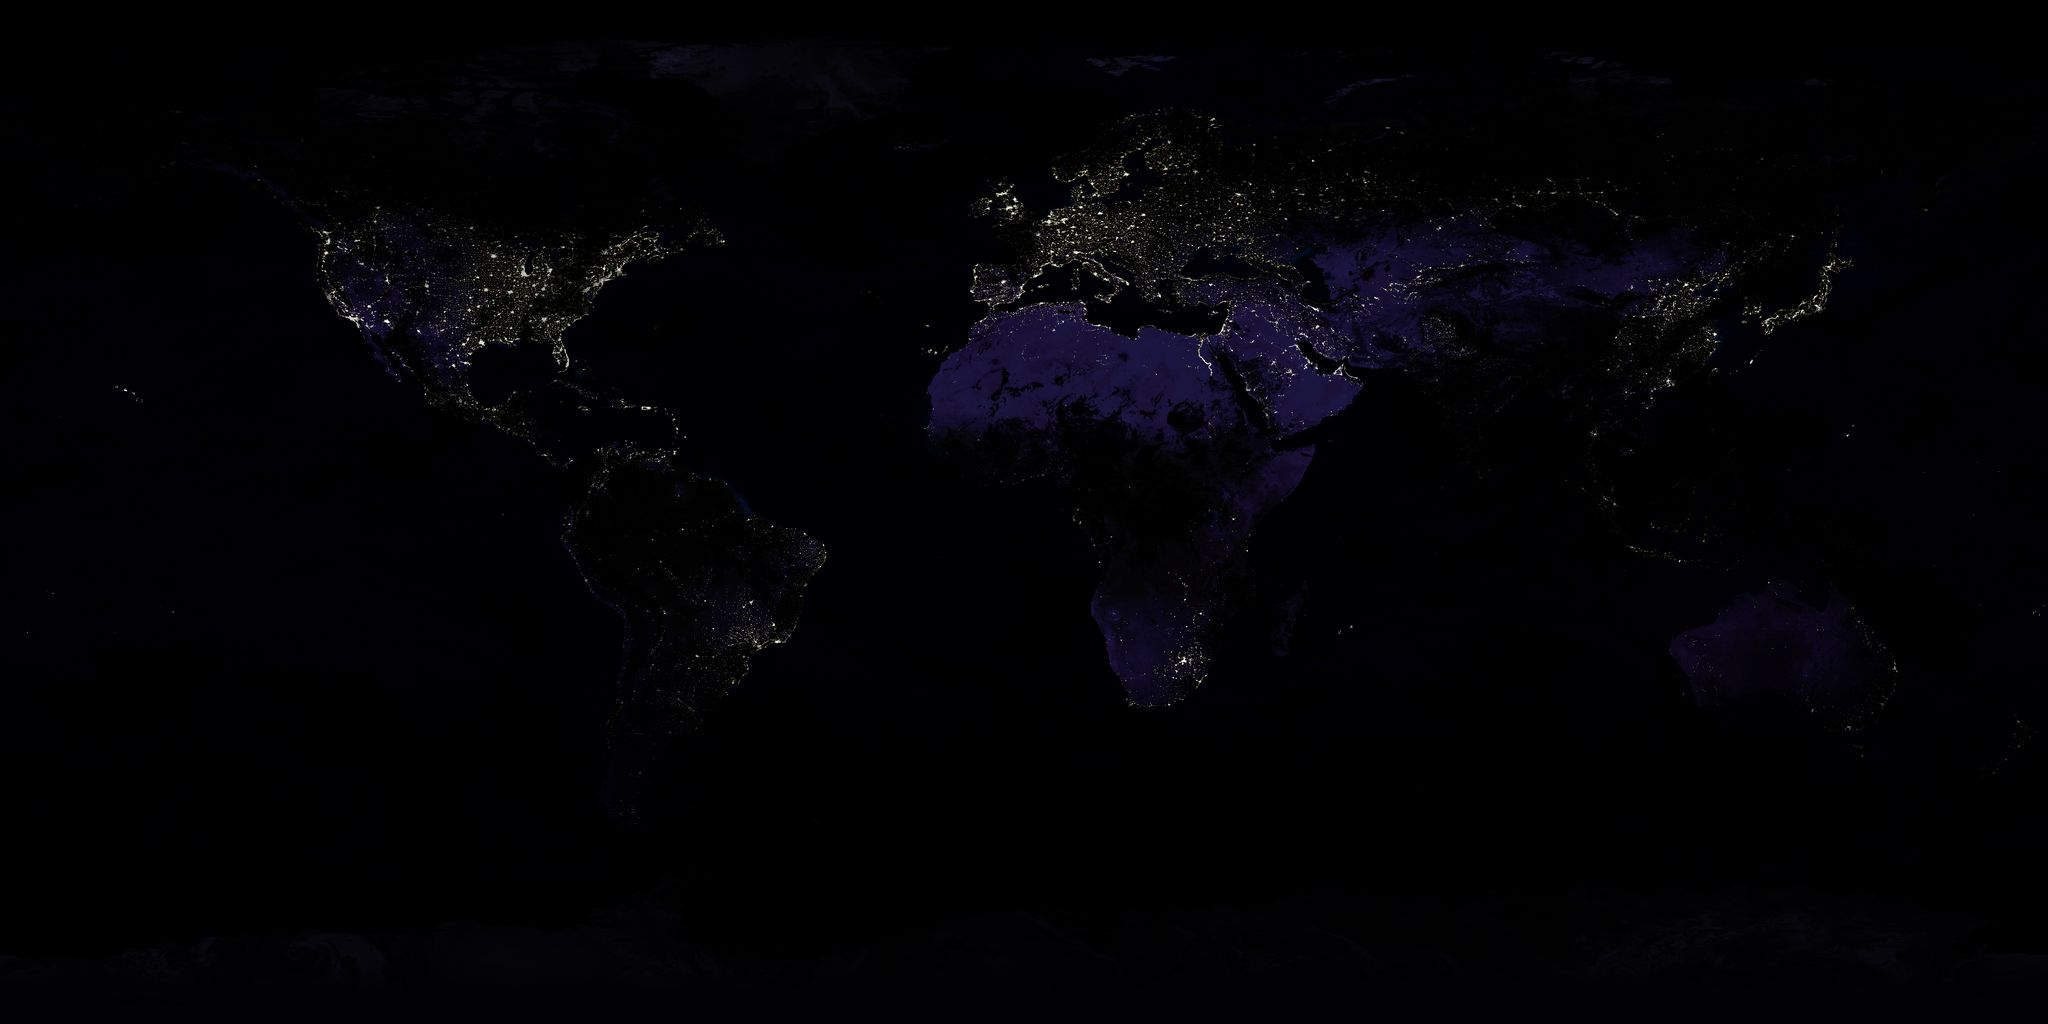
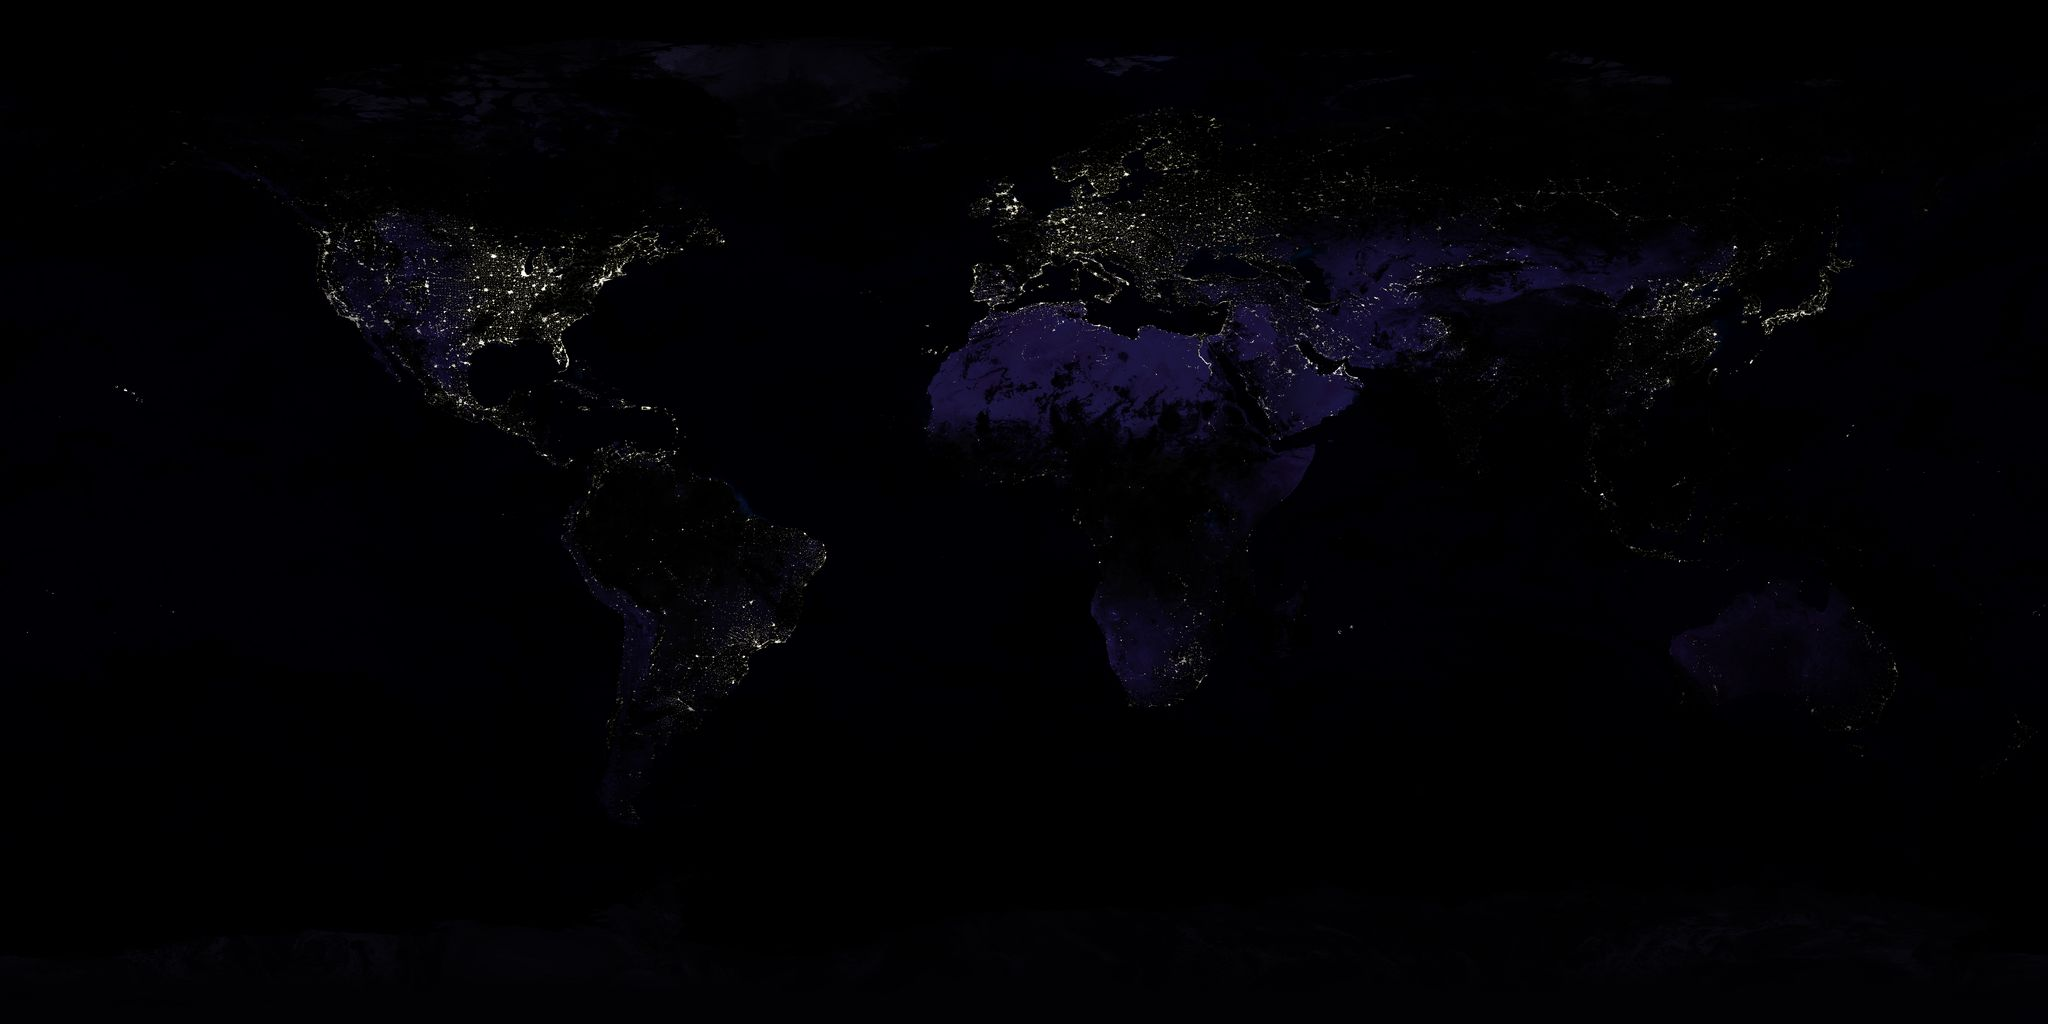
possibly got the day/night blending working nicely

diff --git a/backend/cloud_generator.py b/backend/cloud_generator.py
@@ -7,8 +7,9 @@ import os
 import requests
 import numpy as np
 from PIL import Image, ImageFilter
-from datetime import datetime
+from datetime import datetime, timezone
 import time
+import math
 
 print("Generating cloud maps...")
 
@@ -465,3 +466,142 @@ def save_image_resolutions(image, filename, formats):
 # Start loading images
 for img in images_to_load:
     load_image(img)
+
+def calculate_solar_position(dt):
+    """Calculate sun's subsolar point (latitude, longitude) for given datetime"""
+    # More accurate solar position calculation
+    
+    # Days since J2000.0 epoch (January 1, 2000, 12:00 UTC)
+    j2000 = datetime(2000, 1, 1, 12, 0, 0, tzinfo=timezone.utc)
+    days_since_j2000 = (dt - j2000).total_seconds() / 86400.0
+    
+    # Solar declination (latitude where sun is directly overhead)
+    # This varies from +23.44° to -23.44° throughout the year
+    day_of_year = dt.timetuple().tm_yday
+    solar_declination = 23.44 * math.sin(math.radians(360 * (284 + day_of_year) / 365.25))
+    
+    # Solar longitude (where the sun is directly overhead longitude-wise)
+    # This is based on the equation of time and hour of day
+    
+    # Mean solar time
+    hours_since_midnight = dt.hour + dt.minute/60.0 + dt.second/3600.0
+    
+    # Equation of time correction (simplified)
+    B = math.radians(360 * (day_of_year - 81) / 365.25)
+    equation_of_time = 9.87 * math.sin(2 * B) - 7.53 * math.cos(B) - 1.5 * math.sin(B)
+    
+    # Solar hour angle (0° at solar noon, 15° per hour)
+    solar_time = hours_since_midnight + equation_of_time / 60.0
+    hour_angle = 15.0 * (solar_time - 12.0)  # 15° per hour from solar noon
+    
+    # Solar longitude is opposite to the hour angle
+    solar_longitude = -hour_angle
+    
+    # Normalize to -180 to +180
+    while solar_longitude > 180:
+        solar_longitude -= 360
+    while solar_longitude < -180:
+        solar_longitude += 360
+    
+    return solar_declination, solar_longitude
+
+
+def create_terminator_mask(width, height, solar_lat, solar_lon):
+    """Create a mask where 1.0 = day, 0.0 = night, with smooth transition"""
+    print(f'Creating terminator mask for solar position: {solar_lat:.2f}°, {solar_lon:.2f}°')
+    
+    # Create coordinate grids
+    lon_grid = np.linspace(-180, 180, width)
+    lat_grid = np.linspace(90, -90, height)
+    lon_mesh, lat_mesh = np.meshgrid(lon_grid, lat_grid)
+    
+    # Calculate solar zenith angle for each pixel
+    lat_rad = np.radians(lat_mesh)
+    lon_rad = np.radians(lon_mesh)
+    solar_lat_rad = np.radians(solar_lat)
+    solar_lon_rad = np.radians(solar_lon)
+    
+    # Spherical trigonometry to find sun angle
+    cos_zenith = (np.sin(lat_rad) * np.sin(solar_lat_rad) + 
+                  np.cos(lat_rad) * np.cos(solar_lat_rad) * 
+                  np.cos(lon_rad - solar_lon_rad))
+    
+    # Convert to day/night mask with smooth transition
+    # cos_zenith > 0 = day, cos_zenith < 0 = night
+    # Add smooth transition around terminator (±6 degrees = civil twilight)
+    twilight_angle = np.radians(6)  # Civil twilight
+    day_mask = np.clip((cos_zenith + np.sin(twilight_angle)) / (2 * np.sin(twilight_angle)), 0, 1)
+    
+    return day_mask
+
+
+def create_day_night_blend():
+    """Create blended day/night earth image with real-time terminator"""
+    print('Creating day/night blend with real-time terminator...')
+    
+    # Get current time (UTC)
+    current_time = datetime.now(timezone.utc)
+    print(f'Current UTC time: {current_time.strftime("%Y-%m-%d %H:%M:%S")}')
+    
+    # Calculate solar position
+    solar_lat, solar_lon = calculate_solar_position(current_time)
+    print(f'Solar position: {solar_lat:.2f}° latitude, {solar_lon:.2f}° longitude')
+    
+    # Create terminator mask
+    day_mask = create_terminator_mask(SOURCE_WIDTH, SOURCE_HEIGHT, solar_lat, solar_lon)
+    
+    # Save the mask for debugging
+    print('Saving terminator mask for debugging...')
+    mask_image = Image.fromarray((day_mask * 255).astype(np.uint8), 'L')  # Grayscale
+    save_image_resolutions(mask_image, 'terminator-mask', ['png'])
+    
+    # Load the day and night earth images we just created
+    print('Loading day and night earth images...')
+    
+    # We need to load from the largest resolution we created
+    day_earth_path = None
+    night_earth_path = None
+    
+    # Find the largest resolution directory that exists
+    for i in range(1, 4):  # We skip i=0 (8192x4096)
+        scale = 2 ** i
+        width = SOURCE_WIDTH // scale
+        height = SOURCE_HEIGHT // scale
+        
+        day_path = os.path.join(OUTPUT_DIR, f'{width}x{height}', 'earth.jpg')
+        night_path = os.path.join(OUTPUT_DIR, f'{width}x{height}', 'earth-night.jpg')
+        
+        if os.path.exists(day_path) and os.path.exists(night_path):
+            day_earth_path = day_path
+            night_earth_path = night_path
+            print(f'Using {width}x{height} resolution for blending')
+            break
+    
+    if not day_earth_path or not night_earth_path:
+        print('Error: Could not find day/night earth images for blending')
+        return
+    
+    # Load and resize images to match our processing resolution
+    day_earth_img = Image.open(day_earth_path).resize((SOURCE_WIDTH, SOURCE_HEIGHT), Image.LANCZOS)
+    night_earth_img = Image.open(night_earth_path).resize((SOURCE_WIDTH, SOURCE_HEIGHT), Image.LANCZOS)
+    
+    day_earth = np.array(day_earth_img).astype(np.float32)
+    night_earth = np.array(night_earth_img).astype(np.float32)
+    
+    print('Blending day and night images...')
+    
+    # Blend based on terminator mask
+    blended = day_earth * day_mask[:, :, np.newaxis] + night_earth * (1 - day_mask[:, :, np.newaxis])
+    
+    # Create final image
+    blended_image = Image.fromarray(np.clip(blended, 0, 255).astype(np.uint8))
+    
+    # Save the blended result
+    print('Saving real-time earth image...')
+    save_image_resolutions(blended_image, 'earth-realtime', ['jpg'])
+    
+    print(f'Day/night blend complete! Solar subsolar point: {solar_lat:.2f}°N, {solar_lon:.2f}°E')
+
+
+# Create the day/night blend after all other processing is complete
+create_day_night_blend()
